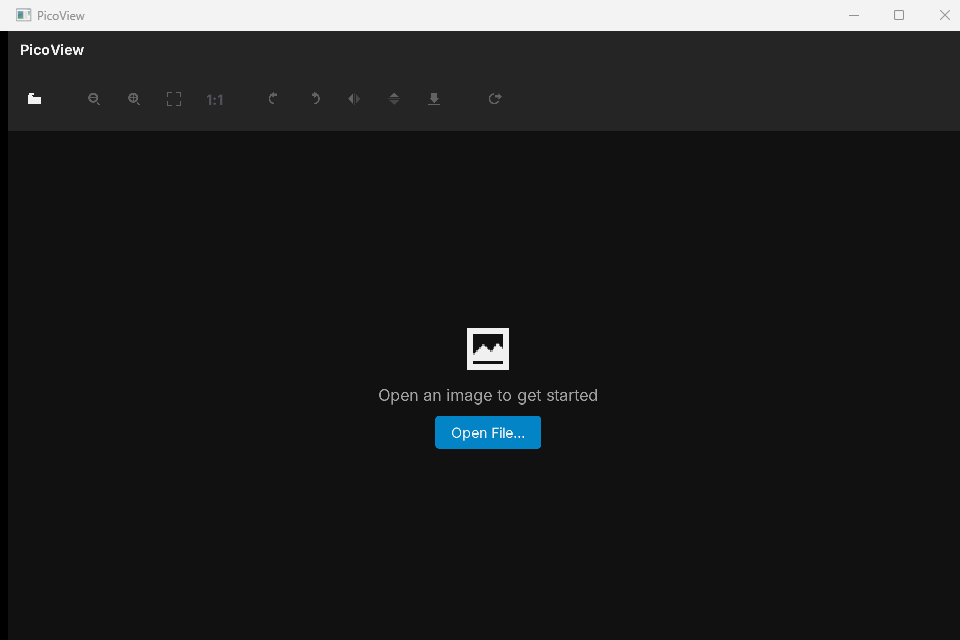
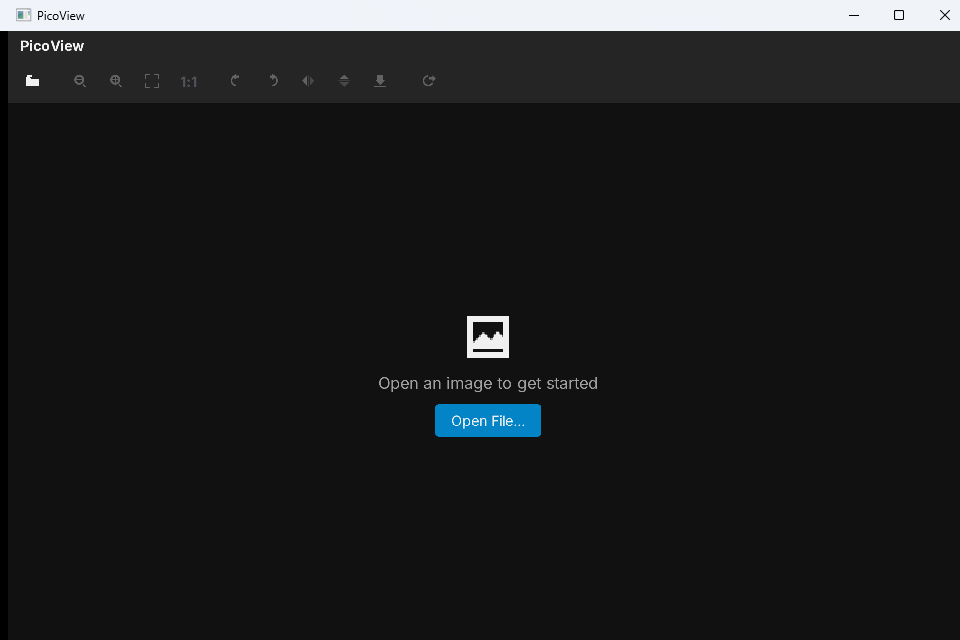
fix(ui): compact title/toolbar/status chrome so the image gets more viewport
User feedback: title + toolbar rows were too tall and squeezed the photo.
SHELL_CHROME 36/64/28 → 28/44/24 (chrome 128 → 96). ToolButton 36→32.
imageViewport still the sole Fit authority; ViewTransform equations unchanged.

diff --git a/guest/shell_layout.ts b/guest/shell_layout.ts
@@ -1,16 +1,17 @@
 // Product shell geometry — one canonical image viewport.
 //
 // Fit, centering, pan clamp, pointer anchors, and image placement must all
-// consume `imageViewport()`. Toolbar/status heights are frozen product
-// constants so layout and Fit math cannot silently disagree.
+// consume `imageViewport()`. Chrome heights are product constants so layout
+// and Fit math cannot silently disagree. Compact values: title+toolbar must
+// not eat the photograph (PR62 follow-up: 36/64 was too tall).
 
 import type { ImageViewport } from "./view_transform.ts";
 
-/** Frozen chrome heights in UI logical units (match app.octane.tsx). */
+/** Chrome heights in UI logical units (must match app.octane.tsx via import). */
 export const SHELL_CHROME = {
-  titleH: 36,
-  toolbarH: 64,
-  statusH: 28,
+  titleH: 28,
+  toolbarH: 44,
+  statusH: 24,
 } as const;
 
 export function chromeHeight(): number {

diff --git a/guest/app.octane.tsx b/guest/app.octane.tsx
@@ -609,7 +609,7 @@ function GroupGap() {
   return <View class="w-2 shrink-0" />;
 }
 
-/** Icon-first toolbar button. Hit 36×36; glyph/text 16×16; no painted caption. */
+/** Icon-first toolbar button. Hit 32×32; glyph/text 16×16; no painted caption. */
 function ToolButton({
   icon,
   textIcon,
@@ -627,8 +627,8 @@ function ToolButton({
 }) {
   const off = disabled === true;
   const shell = off
-    ? "w-9 h-9 items-center justify-center rounded overflow-hidden shrink-0"
-    : "w-9 h-9 items-center justify-center rounded overflow-hidden shrink-0 focus:bg-[#1e1e1e] active:bg-[#1e1e1e]";
+    ? "w-8 h-8 items-center justify-center rounded overflow-hidden shrink-0"
+    : "w-8 h-8 items-center justify-center rounded overflow-hidden shrink-0 focus:bg-[#1e1e1e] active:bg-[#1e1e1e]";
   return (
     <View
       class={shell}

diff --git a/guest/icons.test.ts b/guest/icons.test.ts
@@ -44,9 +44,10 @@ test("toolbar chrome actions exclude Previous/Next text controls", () => {
     expect(toolSemantic(key).length).toBeGreaterThan(0);
   }
   // Frozen shell geometry still owns toolbar height (PR #61 authority).
-  expect(SHELL_CHROME.toolbarH).toBe(64);
-  expect(SHELL_CHROME.titleH).toBe(36);
-  expect(SHELL_CHROME.statusH).toBe(28);
+  // Compact product chrome (PR62 follow-up): image viewport priority.
+  expect(SHELL_CHROME.toolbarH).toBe(44);
+  expect(SHELL_CHROME.titleH).toBe(28);
+  expect(SHELL_CHROME.statusH).toBe(24);
 });
 
 test("reset and refresh asset paths are distinct", () => {

diff --git a/guest/shell_layout.test.ts b/guest/shell_layout.test.ts
@@ -11,7 +11,7 @@ test("chrome height is sum of frozen parts", () => {
   expect(chromeHeight()).toBe(
     SHELL_CHROME.titleH + SHELL_CHROME.toolbarH + SHELL_CHROME.statusH,
   );
-  expect(chromeHeight()).toBe(128);
+  expect(chromeHeight()).toBe(96);
 });
 
 test("image viewport consumes full window minus chrome", () => {

diff --git a/docs/compose/spec/desktop-ui-normalization-1.md b/docs/compose/spec/desktop-ui-normalization-1.md
@@ -64,15 +64,29 @@ two image-edge sides — never as top-toolbar Previous/Next.
 
 ### Authority / frozen geometry
 
-Unchanged by this PR:
+Product chrome heights are **one shared constant set** (`SHELL_CHROME`), not
+per-call literals. Fit/zoom/pan still consume `imageViewport()`. PR #61
+ViewTransform math is unchanged.
 
-- `SHELL_CHROME.titleH / toolbarH / statusH` (36 / 64 / 28)
-- `imageViewport()`, Fit/zoom/pan/ViewTransform (PR #61)
+PR62 follow-up (user): title + toolbar were too tall and squeezed the photo.
+Compact product chrome:
+
+```text
+titleH:   28
+toolbarH: 44
+statusH: 24
+chrome:   96  (was 128 → +32 logical px for the image)
+```
+
+Unchanged by this PR otherwise:
+
+- ViewTransform / Fit / pan (PR #61 equations)
 - BrowseSession, keyboard Previous/Next, publication/decode ownership
 - `POCKETJS.lock` = `24bab5e8df7d0bb7003ad55c8637e4ee9351f3cb`
 - Issue #63 scope (sampling, DPI, resize, retained presentation)
 
-PR #62 may only change presentation **inside** existing chrome regions.
+PR #62 may only change presentation inside chrome regions; image math always
+reads `imageViewport()`.
 
 ### PocketJS capability facts (locked revision)
 
@@ -113,8 +127,8 @@ Rules:
    `Rotate Left`, `Rotate Right`, `Flip Horizontal`, `Flip Vertical`,
    `Reset View`, `Refresh`.
 6. No tooltip invention; report tooltip as follow-up (PocketJS has none today).
-7. One icon-button contract inside frozen `toolbarH=64`:
-   hit target **36×36** (`w-9 h-9`), icon display **16×16** (`w-4 h-4`),
+7. One icon-button contract inside compact `toolbarH=44`:
+   hit target **32×32** (`w-8 h-8`), icon display **16×16** (`w-4 h-4`),
    vertically centered. Heights bind `SHELL_CHROME` literals. `1:1` may use
    a slightly wider content box.
 8. In-group spacing small (`gap-1` / 4px); semantic group gaps larger
